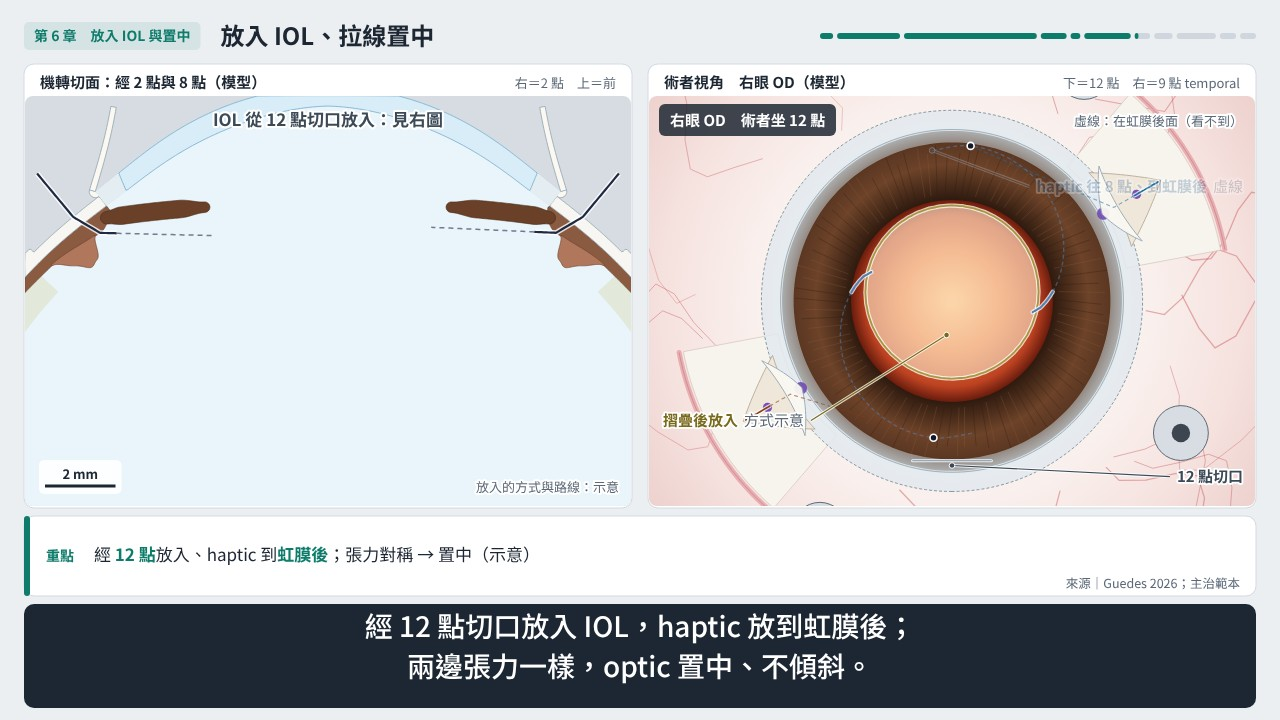
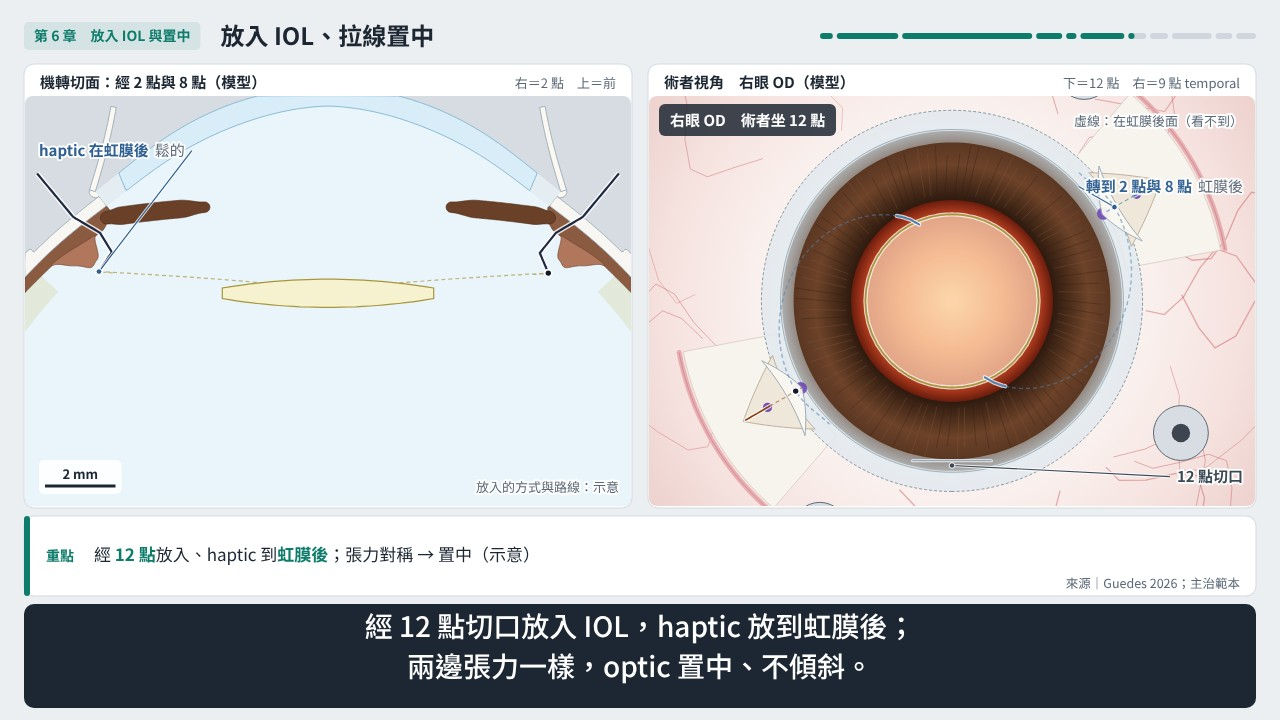
鞏膜縫合固定 IOL 影片：6-1 放入 IOL 改成只經 12 點切口進出、IOL 大小不變
原本放入途中，後面那支 haptic 有一瞬間穿過切口旁的眼球壁和虹膜；還沒拉緊時 haptic 被壓短，IOL 看起來變小（總長只剩 10.8 mm）。改成：IOL 在眼外轉向、摺疊，沿一條經過切口的直線滑進去（前面的 haptic 經瞳孔到虹膜後），後面的 haptic 壓向 optic 帶進切口，移到中央沉到虹膜後、轉到 2–8 點再展開放開；鬆的時候總長仍是 13 mm，拉線時 haptic 才在睫狀溝彎到模型縫好的位置。路線標示意。模型沒改，6-1 開頭多留 3.3 秒給放入的動作。檢查新增：整段每 0.1 秒與每個畫得出的姿勢，haptic 與 optic 只在切口穿過眼球壁、不碰虹膜角膜睫狀體，眼外與鬆的時候總長 13 mm；5 個故意改錯都會擋，舊路線也會被擋（96 格碰到組織）。

diff --git a/videos/src/sutured-scleral-iol-fixation/anim/draw.js b/videos/src/sutured-scleral-iol-fixation/anim/draw.js
@@ -8,8 +8,8 @@
 // both views is the same 3D point (window.SYNC records them per segment; check.js compares them).
 // Chapters 3–5 (2026-11-12, second round) also use the 1–7 section through two trocars and the 12–6 section through the wound; needles, the 27G
 // (insulin) needle and the suture drawn by draw.js over a section are thin strokes on the model's geometry (X.passes, X.sutureOf; the true
-// thickness hides the anatomy; 示意). Chapters 6–9 (third round): the lens put in through the 12 o'clock wound along a 示意 path (lensAt) into the
-// model's slack pose and pulled to the sulcus by the model; the knot in the bed under the flap; error states of the same model (8-1, 8-2, 8-4;
+// thickness hides the anatomy; 示意). Chapters 6–9 (third round): the lens put in through the 12 o'clock wound along a 示意 path (lensAt; 2026-11-12 rewritten:
+// through the wound only, the MA60AC's size kept, slack at its free size) and pulled into the model's fixed pose; the knot in the bed under the flap; error states of the same model (8-1, 8-2, 8-4;
 // draw.js keeps a slipped haptic's knot on the suture); evidence cards on the right of 8-2 to 8-4; the follow-along list (9-1). No placeholder is left.
 // ============================================================================
 const DRAW2 = {};
@@ -714,65 +714,101 @@ function scopeD(st, win, id, o = {}) {
 const arrowOut = (v, from3, to3, col, op = 1) => arrowPath([v.Q(from3), v.Q(to3)], col, 2.6, op);
 
 // ---------------------------------------------------------------- 6 放入 IOL 與置中
-// The strands are cut and tied (5-3, 5-4); the lens goes in from the 5-4 pose outside the 12 o'clock wound (HAP_OUT): turned in its plane outside
-// so that the haptic tied to the 8 o'clock strand leads, slid through the wound with the optic folded (the fold drawn as a narrower optic with its
-// crease), the leading haptic behind the iris toward 8 o'clock while the lens turns until the haptics point at 2 and 8 o'clock; it ends in the
-// model's slack pose (iol pull 0), from which the model pulls both strands to the sulcus (pull 1). The insertion path and the fold are 示意.
+// The strands are cut and tied (5-3, 5-4); the lens goes in from the 5-4 pose outside the 12 o'clock wound (HAP_OUT). Rewritten 2026-11-12 (出片前定稿):
+// the lens keeps the MA60AC's size — optic 6 mm, overall 13 mm (the model's X.HAP) outside the eye and while it hangs slack inside; only the
+// haptics bend (示意) — and every point of it crosses the wall in the 12 o'clock wound only. Path (示意): outside, the lens turns so that the haptic
+// tied to the 8 o'clock strand leads, the optic is folded (drawn narrower, with its crease) and both haptics are pressed toward the lens axis; it
+// slides in along one straight line through the middle of the tunnel (IN6.pitch below the frontal plane, toward 6 o'clock): the leading haptic
+// passes over the iris and through the pupil behind the iris, the optic reaches the pupil; the trailing haptic is pressed against the optic (the
+// tuck of a three-piece lens, 示意) and so comes in through the tunnel; the lens moves onto the axis, sinks behind the iris and turns until its
+// haptics point at 2 and 8 o'clock; the optic unfolds and the trailing haptic is let go behind the iris. The slack pose hangs below the sulcus at
+// the free size (the model's own slack pose, iol pull 0, compresses the haptics to 10.8 mm, so draw.js draws the lens itself in both views);
+// pulling both strands brings the ties up to the sulcus exits while the haptics flex into the model's fixed pose (iol pull 1: 12.84 mm).
+// check.js samples the segment every 0.1 s and every drawn pose (window.LENS61, LENS61_AT): through the wall only in the wound, never in the
+// iris, cornea or ciliary body; 13 mm long outside the eye and when slack.
 const IN_ST = p => OPEN({ ndl: { s2: SN.guedes, s8: SN.guedes, pass: 1, g27: 1, out: 1, taut: 1, hook: 1, cut: 1 }, iol: { pull: p } });
-const IOP0 = X.iolOf(X.norm(IN_ST(0))), IOF = X.iolOf(X.norm(IN_ST(1)));
-// keyframes [u, centre, psi (deg; d = [cos, sin, 0] is where the 8 o'clock haptic points), k (haptic compression: the PMMA loops flex while the
-// lens is placed), fold (optic width across the haptic axis), pitch (deg: the trailing, 12 o'clock end up)]; u 0 = the 5-4 pose (psi 180: HAP_OUT),
-// u 1 = the model's slack pose. The leading haptic goes down behind the iris first, the optic through the pupil, the trailing haptic last.
-const LK = [[0, O_OUT, 180, 1, 1, 0], [0.15, O_OUT, 270, 1, 1, 0], [0.3, [0, 11.0, 10.95], 270, 1, 0.42, 0], [0.52, [0, 3.3, 10.4], 270, 0.8, 0.42, 8],
-  [0.72, [0, 0.6, 9.5], 270, 0.6, 1, 14], [0.86, [0, -0.4, 8.6], 262, 0.6, 1, 0], [1, IOP0.O, 210, IOP0.k, 1, 0]];
+const IOF = X.iolOf(X.norm(IN_ST(1))), D2R6 = Math.PI / 180, TN10 = Math.tan(SN.iol.ang * D2R6), RO = X.HAP.Ro;
+const IN6 = { pitch: 25.5, fold: 0.4, sq: 0.28, zSlack: 7.3, kTuck: 0.05, aB: 3.9, zC: 9.5 };   // 示意: the line, the fold, the squeeze, the tuck, the slack depth
+const WP = G.add(INC.outer, G.sub(INC.inner, INC.outer), 0.5), UL = [0, -Math.cos(IN6.pitch * D2R6), -Math.sin(IN6.pitch * D2R6)], onL = a => G.add(WP, UL, a);
+const A0 = (() => { let t = 0; for (;;) { const p = onL(-t); if (G.wallOf(p[2], Math.hypot(p[0], p[1])).d < 0) break; t += 0.01; } return X.HAP.rTie + t + 0.25; })();   // leading tie 0.25 mm outside
+// a lens pose: centre O; heading psi of the lens axis d (deg; d points to the haptic tied to the 8 o'clock strand); pitch (deg, d below the frontal
+// plane); optic fold (its width across d); the haptics' squeeze across d; compression of the trailing (k0) and the leading (k1) haptic (1 = free)
+function lensPose(P) {
+  const psi = P.psi * D2R6, pt = P.pt * D2R6, d0 = [Math.cos(psi), Math.sin(psi), 0], eb = [-Math.sin(psi), Math.cos(psi), 0];
+  const d = G.add(d0.map(x => x * Math.cos(pt)), [0, 0, 1], -Math.sin(pt)), en = G.add([0, 0, Math.cos(pt)], d0, Math.sin(pt));
+  const haps = [0, 1].map(j => { const ex = j === 0 ? d.map(x => -x) : d, ey = j === 0 ? eb.map(x => -x) : eb, k = j === 0 ? P.k0 : P.k1;
+    return X.HAP.pts.map(p => { const r = Math.hypot(p[0], p[1]), r2 = r <= RO ? r : RO + (r - RO) * k, f = r > 1e-9 ? r2 / r : 1;
+      return G.add(G.add(G.add(P.O, ex, p[0] * f), ey, p[1] * f * P.sq), en, Math.max(0, r2 - RO) * TN10); }); });
+  const rim = []; for (let m = 0; m <= 48; m++) { const th = 2 * Math.PI * m / 48; rim.push(G.add(G.add(P.O, d, RO * Math.cos(th)), eb, RO * Math.sin(th) * P.fold)); }
+  return { O: P.O, d, eb, en, fold: P.fold, haps, rim, ties: haps.map(H => H[TIE_I]) };
+}
+const LP = (O, psi, pt, fold, sq, k0, k1) => ({ O, psi, pt, fold, sq, k0, k1 });
+// keyframes [u, pose]: 0 the 5-4 pose (psi 180 = HAP_OUT) → 0.1 turned → 0.2 folded and squeezed, at the wound → 0.5 along the line (a pure
+// translation through the tunnel) → 0.6 the trailing haptic tucked → 0.68 onto the axis → 0.82 behind the iris, turned to 2–8 → 0.9 unfolded → 1 slack
+const LK = [[0, LP(O_OUT, 180, 0, 1, 1, 1, 1)], [0.1, LP(O_OUT, 270, 0, 1, 1, 1, 1)], [0.2, LP(onL(-A0), 270, IN6.pitch, IN6.fold, IN6.sq, 1, 1)],
+  [0.5, LP(onL(IN6.aB), 270, IN6.pitch, IN6.fold, IN6.sq, 1, 1)], [0.6, LP(onL(IN6.aB), 270, IN6.pitch, IN6.fold, IN6.sq, IN6.kTuck, 1)],
+  [0.68, LP([0, 0, IN6.zC], 270, IN6.pitch, IN6.fold, IN6.sq, IN6.kTuck, 1)], [0.82, LP([0, 0, IN6.zSlack], 210, 0, IN6.fold, IN6.sq, IN6.kTuck, 1)],
+  [0.9, LP([0, 0, IN6.zSlack], 210, 0, 1, 1, IN6.kTuck, 1)], [1, LP([0, 0, IN6.zSlack], 210, 0, 1, 1, 1, 1)]];
 function lensAt(u) {
   let i = 1; while (i < LK.length - 1 && u > LK[i][0]) i++;
-  const a = LK[i - 1], b = LK[i], t = ss(a[0], b[0], u), O = [0, 1, 2].map(m => lerp(a[1][m], b[1][m], t)), psi = lerp(a[2], b[2], t) * Math.PI / 180, k = lerp(a[3], b[3], t), fold = lerp(a[4], b[4], t), pt = lerp(a[5], b[5], t) * Math.PI / 180;
-  const d0 = [Math.cos(psi), Math.sin(psi), 0], eb = [-Math.sin(psi), Math.cos(psi), 0], d = G.add(d0.map(x => x * Math.cos(pt)), [0, 0, 1], -Math.sin(pt)), en = G.add([0, 0, Math.cos(pt)], d0, Math.sin(pt));
-  const tn = Math.tan(SN.iol.ang * Math.PI / 180), Ro = X.HAP.Ro;
-  const haps = [0, 1].map(j => { const ex = j === 0 ? d.map(x => -x) : d, ey = j === 0 ? eb.map(x => -x) : eb;
-    return X.HAP.pts.map(p => { const r = Math.hypot(p[0], p[1]), r2 = r <= Ro ? r : Ro + (r - Ro) * k, f = r > 1e-9 ? r2 / r : 1; return G.add(G.add(G.add(O, ex, p[0] * f), ey, p[1] * f * fold), en, Math.max(0, r2 - Ro) * tn); }); });
-  const rim = []; for (let m = 0; m <= 48; m++) { const th = 2 * Math.PI * m / 48; rim.push(G.add(G.add(O, d, Ro * Math.cos(th)), eb, Ro * Math.sin(th) * fold)); }
-  return { O, d, eb, fold, haps, rim, ties: haps.map(H => H[TIE_I]) };
+  const [ua, a] = LK[i - 1], [ub, b] = LK[i], t = ss(ua, ub, u), L = (x, y) => lerp(x, y, t);
+  return lensPose(LP([0, 1, 2].map(m => L(a.O[m], b.O[m])), L(a.psi, b.psi), L(a.pt, b.pt), L(a.fold, b.fold), L(a.sq, b.sq), L(a.k0, b.k0), L(a.k1, b.k1)));
 }
+// slack → the model's fixed pose (pull 1 = X.iolOf of IN_ST(1)): the haptics flex first, then the lens rises to the sulcus
+function pulledAt(pl) { const k = lerp(1, IOF.k, ss(0, 0.3, pl)); return lensPose(LP([0, 0, lerp(IN6.zSlack, IOF.O[2], ss(0.15, 1, pl))], 210, 0, 1, 1, k, k)); }
+const U61 = 120, P61 = 16;   // quantised steps of the insertion and the pull (frames reused between steps)
+window.LENS61_AT = { u: k => lensAt(k / U61), pull: k => pulledAt(k / P61), U61, P61 };
 // each strand from its bed to its tie on the moving lens: out through the wound while the tie is outside, through the tunnel, around the pupil
-// margin while the tie is in the chamber, straight behind the iris once the tie is there (the hooked route of 5-3; 示意)
+// margin while the tie is in the chamber (the hooked route of 5-3; 示意), straight behind the iris once the tie is there (sagging inward when slack)
 const STR0 = X.sutureOf(X.norm(CUT_ST)).segs.map(sg => sg.slice(0, 3)), HK = [0, 1].map(j => X.hookPts(PS0, j));
-function strandsTo(ties) { return ties.map((T, j) => { const W = G.wallOf(T[2], Math.hypot(T[0], T[1])), r = Math.hypot(T[0], T[1]);
+function strandsTo(ties, sag = 0) { return ties.map((T, j) => { const W = G.wallOf(T[2], Math.hypot(T[0], T[1])), r = Math.hypot(T[0], T[1]);
   if (W.d < 0) return [...STR0[j], ...HK[j], INC.inner, INC.outer, T];
   if (W.d <= G.T(W.s)) return [...STR0[j], ...HK[j], INC.inner, T];
-  return X.acTest(r, T[2]) ? [...STR0[j], ...HK[j], T] : [...STR0[j], T]; }); }
+  if (X.acTest(r, T[2])) return [...STR0[j], ...HK[j], T];
+  const I = STR0[j][2], M = G.add(I, G.sub(T, I), 0.5); return [...STR0[j], G.add(M, G.unit([M[0], M[1], 0]), -sag), T]; }); }
 // the moving lens on the microscope view: optic (narrow while folded, with its crease), haptics dashed where hidden, the two ties
 function lensScope(v, L, op = 1) {
   const q = L.rim.map(p => v.Q(p)), c = v.Q([0, 0, 0]), behind = !X.acTest(Math.hypot(L.O[0], L.O[1]), L.O[2]) && G.wallOf(L.O[2], Math.hypot(L.O[0], L.O[1])).d > 0;
   let s = `<clipPath id="pup61"><circle cx="${c[0].toFixed(1)}" cy="${c[1].toFixed(1)}" r="${(X.IR.pr * v.k).toFixed(1)}"/></clipPath>`;
   s += `<g ${behind ? 'clip-path="url(#pup61)"' : ''}><path d="M${q.map(f1).join('L')}Z" fill="#fff6dc" opacity="0.55"/></g>` + polyScope(v, L.rim, 1.8, C.iolS);
-  if (L.fold < 0.95) { const a = v.Q(G.add(L.O, L.d, -X.HAP.Ro)), b = v.Q(G.add(L.O, L.d, X.HAP.Ro)); s += `<path d="M${f1(a)}L${f1(b)}" stroke="${C.iolS}" stroke-width="1.4" stroke-dasharray="4 3"/>`; }
+  if (L.fold < 0.95) { const a = v.Q(G.add(L.O, L.d, -RO)), b = v.Q(G.add(L.O, L.d, RO)); s += `<path d="M${f1(a)}L${f1(b)}" stroke="${C.iolS}" stroke-width="1.4" stroke-dasharray="4 3"/>`; }
   for (const H of L.haps) s += polyScope(v, H, 2.0, C.hap);
   for (const t of L.ties) s += dot(v.Q(t), '#111827', 3.5);
   return `<g opacity="${op}">${s}</g>`;
 }
+// the lens in the 2–8 section (it lies in this plane once turned): the optic's cut (thickness profile), the haptics projected (dashed: out of the
+// plane, as the model draws them), the ties
+function lensSec(v, L, op = 1) {
+  const top = [], bot = []; for (let m = 0; m <= 30; m++) { const x = -RO + 2 * RO * m / 30, h = X.optHalf(Math.abs(x)); top.push(v.Q(G.add(G.add(L.O, L.d, x), L.en, h))); bot.unshift(v.Q(G.add(G.add(L.O, L.d, x), L.en, -h))); }
+  let s = ''; for (const H of L.haps) s += `<path d="M${H.map(p => f1(v.Q(p))).join('L')}" fill="none" stroke="${C.iolS}" stroke-width="1.2" stroke-dasharray="4 3" opacity="0.7"/>`;
+  s += `<path d="M${[...top, ...bot].map(f1).join('L')}Z" fill="${C.iol}" stroke="${C.iolS}" stroke-width="1.2"/>`;
+  for (const t of L.ties) s += dot(v.Q(t), '#111827', 3.5);
+  return `<g opacity="${op}">${s}</g>`;
+}
 DRAW2['6-1'] = T => {
-  const u = T.p(0, 0.02, 0.56), kx = T.p(0, 0.56, 0.62), pull = T.p(0, 0.62, 0.9), k1 = T.on(1), k2 = T.on(2);
-  const uq = qz(u, 60), L = lensAt(uq), strands = strandsTo(L.ties), pq = qz(pull, 16);
-  // left: the 2–8 section: the strands follow the lens in (out of this plane: dashed); the lens appears when it hangs behind the iris (slack, pull 0),
-  // then both strands are pulled and the haptics come up to the sulcus under the fixation points: optic centred, not tilted
-  const vA = sec(OPEN({}), W_IOL), vB = kx > 0 ? sec(IN_ST(pq), W_IOL) : null, A = vB ? vB.A : vA.A;
-  let svg = kx <= 0 ? vA.svg : kx >= 1 ? vB.svg : vA.svg + `<g opacity="${kx.toFixed(2)}">${vB.svg}</g>`;
-  if (kx < 1) for (const sg of strands) svg += strandSec(vA, sg, { op: 1 - kx });
+  const pre = T.st(0) - 0.3, d0 = T.en(0) - T.st(0);   // the segment's lead (segments.js) gives the insertion time before line 0
+  const u = T.on(0, pre + 0.5 * d0, -pre), pull = T.p(0, 0.6, 0.92), k1 = T.on(1), k2 = T.on(2);
+  const uq = Math.round(clamp01(u) * U61), pq = Math.round(clamp01(pull) * P61), L = pq > 0 ? pulledAt(pq / P61) : lensAt(uq / U61), strands = strandsTo(L.ties, 0.35 * (1 - pq / P61));
+  const uu = uq / U61, kx = ss(0.8, 0.86, uu), win = (a, b, c, d) => ss(a, b, uu) * (1 - ss(c, d, uu));   // kx: the lens lies in the 2–8 plane (turned, behind the iris)
+  window.LENS61 = { u: uq, pull: pq, O: L.O, d: L.d, eb: L.eb, en: L.en, fold: L.fold, haps: L.haps };
+  // left: the 2–8 section: the strands follow the lens in (out of this plane: dashed); the lens appears once it is turned into this plane behind
+  // the iris (the optic unfolds, the trailing haptic is let go: hanging slack); then both strands are pulled and the haptics come up to the sulcus under the fixation points: optic centred, not tilted
+  const vA = sec(OPEN({}), W_IOL);
+  let svg = vA.svg; for (const sg of strands) svg += strandSec(vA, sg);
+  if (kx > 0) svg += lensSec(vA, L, kx);
   const kp = pull > 0 && pull < 1 ? 1 : 0, out2 = G.add(PS0.E2, G.unit(G.sub(PS0.E2, PS0.I2)), 1.6), out8 = G.add(PS0.E8, G.unit(G.sub(PS0.E8, PS0.I8)), 1.6);
   svg += arrowOut(vA, G.add(PS0.E2, G.unit(G.sub(PS0.E2, PS0.I2)), 0.4), out2, WARN, kp) + arrowOut(vA, G.add(PS0.E8, G.unit(G.sub(PS0.E8, PS0.I8)), 0.4), out8, WARN, kp);
-  if (k2 > 0) { const top = [], bot = [], back = -0.7; for (let m = 0; m <= 30; m++) { const x = -X.HAP.Ro + 2 * X.HAP.Ro * m / 30, hth = X.optHalf(Math.abs(x)); top.push(vB.Q(G.add(G.add(IOF.O, IOF.d, x), IOF.en, back + hth))); bot.unshift(vB.Q(G.add(G.add(IOF.O, IOF.d, x), IOF.en, back - hth))); }
+  if (k2 > 0) { const top = [], bot = [], back = -0.7; for (let m = 0; m <= 30; m++) { const x = -RO + 2 * RO * m / 30, hth = X.optHalf(Math.abs(x)); top.push(vA.Q(G.add(G.add(IOF.O, IOF.d, x), IOF.en, back + hth))); bot.unshift(vA.Q(G.add(G.add(IOF.O, IOF.d, x), IOF.en, back - hth))); }
     svg += `<path d="M${[...top, ...bot].map(f1).join('L')}Z" fill="none" stroke="#7d8e9b" stroke-width="1.8" stroke-dasharray="6 4" opacity="${k2.toFixed(2)}"/>`;
-    const a = vB.Q(G.add(IOF.O, IOF.en, back - 0.35)), b = vB.Q(G.add(IOF.O, IOF.en, -0.45)); svg += arrowPath([a, b], COL.accent, 2.4, k2.toFixed(2)); }
-  let ex = tag('IOL 從 12 點切口放入：見右圖', T.on(0) * (1 - kx), INK2, 30);
-  if (vB) { ex += labL('haptic 在虹膜後', '鬆的', 60, A.tie8, { bold: true, color: '#2f5f93', lc: '#2f5f93', op: kx * (1 - pull) });
-    ex += labR('拉 2 點的線', '', 210, vB.Q(PS0.E2), { bold: true, color: WARN, lc: WARN, op: kp });
-    ex += labL('拉 8 點的線', '', 210, vB.Q(PS0.E8), { bold: true, color: WARN, lc: WARN, op: kp });
-    ex += labR('haptic 到睫狀溝 sulcus', '', 130, A.tie2, { bold: true, color: GRN, lc: GRN, op: ss(0.85, 1, pull) * (1 - k1) });
-    ex += labL('optic 置中、不傾斜', '', 300, A.iolC, { bold: true, color: IOLC, lc: IOLC, op: ss(0.85, 1, pull) * (1 - k2) });
-    ex += labL('縫在溝：較前', 'sulcus', 300, A.iolC, { bold: true, color: COL.accent, lc: COL.accent, op: k2 });
-    ex += labR('囊袋內的位置', '比較、示意', 330, vB.Q(G.add(G.add(IOF.O, IOF.d, -2.2), IOF.en, -0.7 - 0.25)), { bold: true, color: '#56616d', lc: '#56616d', op: k2 }); }
+    const a = vA.Q(G.add(IOF.O, IOF.en, back - 0.35)), b = vA.Q(G.add(IOF.O, IOF.en, -0.45)); svg += arrowPath([a, b], COL.accent, 2.4, k2.toFixed(2)); }
+  let ex = tag('IOL 從 12 點切口放入：見右圖', T.on(0, 0.6, -pre) * (1 - kx), INK2, 30);
+  if (kx > 0) { ex += labL('haptic 在虹膜後', '鬆的', 60, vA.Q(L.ties[1]), { bold: true, color: '#2f5f93', lc: '#2f5f93', op: kx * (1 - pull) });
+    ex += labR('拉 2 點的線', '', 210, vA.Q(PS0.E2), { bold: true, color: WARN, lc: WARN, op: kp });
+    ex += labL('拉 8 點的線', '', 210, vA.Q(PS0.E8), { bold: true, color: WARN, lc: WARN, op: kp });
+    ex += labR('haptic 到睫狀溝 sulcus', '', 130, vA.Q(L.ties[0]), { bold: true, color: GRN, lc: GRN, op: ss(0.85, 1, pull) * (1 - k1) });
+    ex += labL('optic 置中、不傾斜', '', 300, vA.Q(L.O), { bold: true, color: IOLC, lc: IOLC, op: ss(0.85, 1, pull) * (1 - k2) });
+    ex += labL('縫在溝：較前', 'sulcus', 300, vA.Q(L.O), { bold: true, color: COL.accent, lc: COL.accent, op: k2 });
+    ex += labR('囊袋內的位置', '比較、示意', 330, vA.Q(G.add(G.add(IOF.O, IOF.d, -2.2), IOF.en, -0.7 - 0.25)), { bold: true, color: '#56616d', lc: '#56616d', op: k2 }); }
   // line 1: vertical tilt in the UBM study (a gauge; the lens drawn tilted by the study's mean, the 5° line the threshold it quotes)
   if (k1 > 0) { const bx = 300, by = 238, bw = 292, bh = 160, cx = bx + bw / 2, cy = by + 96, R = 120, rot = (deg, r) => [cx + r * Math.cos(deg * Math.PI / 180), cy - r * Math.sin(deg * Math.PI / 180)];
     let g = `<rect x="${bx}" y="${by}" width="${bw}" height="${bh}" rx="8" fill="#fff" stroke="#d3dae1"/>` + text(bx + 12, by + 24, '垂直傾斜 tilt（UBM，Zhao 2025）', { size: 14, bold: true, color: INK2 });
@@ -782,24 +818,25 @@ DRAW2['6-1'] = T => {
     g += text(bx + bw - 12, by + 52, '> 5°：可能眩光、複視（引述）', { size: 13, bold: true, color: WARN, anchor: 'end' }) + text(bx + 12, by + bh - 12, '平均 3.13°', { size: 15, bold: true, color: IOLC });
     svg += `<g opacity="${(k1 * (1 - k2)).toFixed(2)}">${g}</g>`; }
   ex += sbar(vA, 2) + note('放入的方式與路線：示意', 1);
-  if (pull >= 1) { sync('6-1', 'sec', 'tie2', IOF.ties[0]); sync('6-1', 'sec', 'tie8', IOF.ties[1]); sync('6-1', 'sec', 'iolC', IOF.O); }
-  // right: the microscope view: the folded lens through the 12 o'clock wound, the leading haptic behind the iris toward 8 o'clock, the lens turned;
-  // then the model's lens pulled from slack to the sulcus; dashed = behind the iris
-  const zw = qz(T.p(0, 0.14, 0.4), 24), swn = VIEWS.zwin(SC_54, SC_ALL, zw), wA = scope(OPEN({}), swn, 'sR'), wB = kx > 0 ? scope(IN_ST(pq), SC_ALL, 'sR2') : null;
-  let rsvg = kx <= 0 ? wA.svg : kx >= 1 ? wB.svg : wB.svg + `<g opacity="${(1 - kx).toFixed(2)}">${wA.svg}</g>`;
-  if (kx < 1) { for (const [j, sg] of strands.entries()) rsvg += polyScope(wA, sg, 1.6, j ? S8C : S2C, { op: 1 - kx }); rsvg += lensScope(wA, L, 1 - kx); }
-  rsvg += arrowOut(wA, G.add(PS0.E2, G.unit(G.sub(PS0.E2, PS0.I2)), 0.4), out2, WARN, kp) + arrowOut(wA, G.add(PS0.E8, G.unit(G.sub(PS0.E8, PS0.I8)), 0.4), out8, WARN, kp);
+  if (pq >= P61) { sync('6-1', 'sec', 'tie2', L.ties[0]); sync('6-1', 'sec', 'tie8', L.ties[1]); sync('6-1', 'sec', 'iolC', L.O); }
+  // right: the microscope view: the folded lens through the 12 o'clock wound, the leading haptic behind the iris, the trailing haptic tucked, the
+  // lens turned to 2–8 behind the iris and let go; then pulled from slack to the sulcus; dashed = behind the iris
+  const zw = qz(ss(0.15, 0.45, uq / U61), 24), wA = scope(OPEN({}), VIEWS.zwin(SC_54, SC_ALL, zw), 'sR');
+  let rsvg = wA.svg; for (const [j, sg] of strands.entries()) rsvg += polyScope(wA, sg, 1.6, j ? S8C : S2C);
+  rsvg += lensScope(wA, L) + arrowOut(wA, G.add(PS0.E2, G.unit(G.sub(PS0.E2, PS0.I2)), 0.4), out2, WARN, kp) + arrowOut(wA, G.add(PS0.E8, G.unit(G.sub(PS0.E8, PS0.I8)), 0.4), out8, WARN, kp);
   let rx = orientTag();
   rx += labR('12 點切口', '', 386, wA.Q(INC.outer), { bold: true, color: INK2, op: 1 - pull });
-  rx += labL('摺疊後放入', '方式示意', 330, wA.Q(G.add(L.O, L.d, -1.5)), { bold: true, color: IOLC, lc: IOLC, op: T.p(0, 0.2, 0.28) * (1 - T.p(0, 0.48, 0.55)) });
-  rx += labR('haptic 往 8 點、到虹膜後', '虛線', 96, wA.Q(L.haps[1][X.HAP.pts.length - 1]), { bold: true, color: '#2f5f93', lc: '#2f5f93', op: T.p(0, 0.4, 0.46) * (1 - kx) });
-  if (wB) { rx += labR('拉 8 點的線', '', 130, wB.Q(out8), { bold: true, color: WARN, lc: WARN, op: kp });
-    rx += labL('拉 2 點的線', '', 300, wB.Q(out2), { bold: true, color: WARN, lc: WARN, op: kp });
-    rx += labR('optic 置中', 'centred', 230, wB.A.iolC, { bold: true, color: IOLC, lc: IOLC, op: ss(0.85, 1, pull) });
-    if (wB.A.tie2) rx += labL('2 點綁線處', 'haptic', 230, wB.A.tie2, { bold: true, color: GRN, lc: GRN, op: ss(0.85, 1, pull) });
-    if (wB.A.tie8) rx += labR('8 點綁線處', 'haptic', 130, wB.A.tie8, { bold: true, color: GRN, lc: GRN, op: ss(0.85, 1, pull) * (1 - kp) }); }
+  rx += labL('摺疊後放入', '方式示意', 330, wA.Q(G.add(L.O, L.d, -1.5)), { bold: true, color: IOLC, lc: IOLC, op: win(0.1, 0.18, 0.42, 0.48) });
+  rx += labR('前面的 haptic 先到虹膜後', '虛線', 96, wA.Q(L.haps[1][X.HAP.pts.length - 1]), { bold: true, color: '#2f5f93', lc: '#2f5f93', op: win(0.38, 0.44, 0.52, 0.56) });
+  rx += labL('後面的 haptic 壓向 optic', '示意', 300, wA.Q(L.haps[0][TIE_I]), { bold: true, color: '#2f5f93', lc: '#2f5f93', op: win(0.52, 0.56, 0.68, 0.72) });
+  rx += labR('轉到 2 點與 8 點', '虹膜後', 96, wA.Q(L.ties[1]), { bold: true, color: '#2f5f93', lc: '#2f5f93', op: win(0.72, 0.76, 0.98, 1.01) * (1 - clamp01(pull * 4)) });
+  if (kx > 0) { rx += labR('拉 8 點的線', '', 130, wA.Q(out8), { bold: true, color: WARN, lc: WARN, op: kp });
+    rx += labL('拉 2 點的線', '', 300, wA.Q(out2), { bold: true, color: WARN, lc: WARN, op: kp });
+    rx += labR('optic 置中', 'centred', 230, wA.Q(L.O), { bold: true, color: IOLC, lc: IOLC, op: ss(0.85, 1, pull) });
+    rx += labL('2 點綁線處', 'haptic', 230, wA.Q(L.ties[0]), { bold: true, color: GRN, lc: GRN, op: ss(0.85, 1, pull) });
+    rx += labR('8 點綁線處', 'haptic', 130, wA.Q(L.ties[1]), { bold: true, color: GRN, lc: GRN, op: ss(0.85, 1, pull) * (1 - kp) }); }
   rx += note('虛線：在虹膜後面（看不到）', 1, 30) + note('度數依主治', k2);
-  if (pull >= 1) { sync('6-1', 'scope', 'tie2', IOF.ties[0]); sync('6-1', 'scope', 'tie8', IOF.ties[1]); sync('6-1', 'scope', 'iolC', IOF.O); }
+  if (pq >= P61) { sync('6-1', 'scope', 'tie2', L.ties[0]); sync('6-1', 'scope', 'tie8', L.ties[1]); sync('6-1', 'scope', 'iolC', L.O); }
   return { L: { svg, extra: ex, P: IOL_SEC_T }, R: { svg: rsvg, extra: rx, P: SCOPE_T } };
 };
 

diff --git a/videos/src/sutured-scleral-iol-fixation/check.js b/videos/src/sutured-scleral-iol-fixation/check.js
@@ -23,6 +23,11 @@
 //    left: every segment draws more than its title and never 「畫面製作中」.
 // 6. States drawn (window.STATES): 8-1 the symmetric lens is not tilted and the asymmetric one is (Zhao 2025: asymmetry predicts tilt; amount 示意);
 //    8-4 each state shown side by side is an error state (decentred or tilted).
+// 7. 6-1, the lens put in (2026-11-12, 出片前定稿): the whole segment every 0.1 s and every pose draw.js can draw (window.LENS61, LENS61_AT): every
+//    point of the haptics (centre line every 0.05 mm) and of the optic (both faces and the rim) is outside the eye, in the open chamber / cavity, or
+//    in the wall only inside the 12 o'clock wound (2.75 mm wide, from its outer to its inner opening, the whole thickness: the lips open); never in
+//    the iris, the cornea, sclera or limbus elsewhere, or the ciliary body; the lens does cross the wound; outside the eye the lens is the MA60AC's
+//    13 mm overall with a 6 mm optic, and hanging slack inside it is still 13 mm (only the haptics bend; pulled, they flex to the model's fixed pose).
 // --selftest breaks each check once on purpose and fails unless every check then reports the error. --list prints the numbers per segment.
 global.document = { createElement: () => ({ getContext: () => ({ measureText: () => ({ width: 10 }) }) }) };
 const path = require('path');
@@ -86,7 +91,13 @@ async function fromPage() {   // all text drawn on screen per drawn segment (60 
     const placed = {}; for (const id of window.PLACEHOLDERS || []) { const s = TL_EXPORT.find(x => x.id === id), set = new Set();
       for (const [a, e] of s.lines) { renderAt(a + (e - a) * 0.6); for (const t of document.querySelectorAll('#stage text')) { const r = t.getBoundingClientRect(), y = r.y + r.height / 2; if (y > CONTENT_Y && y < CONTENT_Y + CONTENT_H) set.add(t.textContent); } }
       placed[id] = [...set]; }
-    return { screen, sync: window.SYNC, tl, place: window.PLACEHOLDERS, placed, source: window.TIMELINE_SOURCE, states: window.STATES }; });
+    // 6-1: the lens every 0.1 s, and every pose draw.js can draw (its quantised insertion and pull steps)
+    const s61 = TL_EXPORT.find(x => x.id === '6-1'), pick = L => L ? { O: L.O, d: L.d, eb: L.eb, en: L.en, fold: L.fold, haps: L.haps } : {}, lens61 = [];
+    if (s61) for (let t = s61.t0; t < s61.t1; t += 0.1) { renderAt(t); lens61.push({ t: +(t - s61.t0).toFixed(2), u: (window.LENS61 || {}).u, pull: (window.LENS61 || {}).pull, ...pick(window.LENS61) }); }
+    const at = window.LENS61_AT, poses = !at ? [] : [...Array(at.U61 + 1).keys()].map(k => ({ u: k, pull: 0, ...pick(at.u(k)) }))
+      .concat([...Array(at.P61 + 1).keys()].map(k => ({ u: at.U61, pull: k, ...pick(at.pull(k)) })));
+    return { screen, sync: window.SYNC, tl, place: window.PLACEHOLDERS, placed, source: window.TIMELINE_SOURCE, states: window.STATES,
+      lens61: JSON.parse(JSON.stringify(lens61)), poses: JSON.parse(JSON.stringify(poses)), dur61: s61 ? s61.t1 - s61.t0 : 0, U61: at && at.U61, P61: at && at.P61 }; });
   await b.close();
   if (errs.length) throw new Error('page errors: ' + errs.join(' | '));
   return out;
@@ -285,13 +296,57 @@ function ledgerChecks(ctx) {
   return R;
 }
 
+// ---------------------------------------------------------------- 7. 6-1: the lens through the wound only, its size
+const RO = X.HAP.Ro, WOUND = { h: SN.inc.h, half: SN.inc.w / 2, s0: SN.inc.sIn - 0.1, s1: SN.inc.s + 0.1 };
+function where(p) {   // outside / in (open chamber or cavity) / wound / wall (cornea, limbus, sclera elsewhere) / iris / uvea
+  const rho = Math.hypot(p[0], p[1]), o = X.uveaAt(rho, p[2]), W = o.W;
+  if (o.cornea < 0 || o.limbus < 0 || o.sclera < 0) { const lat = Math.abs(X.dH(G.mer(p).h, WOUND.h)) * Math.PI / 6 * W.rhoF;
+    return W.s >= WOUND.s0 && W.s <= WOUND.s1 && lat <= WOUND.half ? 'wound' : 'wall'; }
+  if (o.iris < 0) return 'iris';
+  if (o.cbody < 0 || o.proc < 0 || o.choroid < 0 || o.retina < 0) return 'uvea';
+  return o.interior < 0 ? 'in' : 'out';
+}
+function lensPts(F) {   // haptic centre lines every ≤ 0.05 mm; the optic's two faces (a grid inside its outline, narrowed while folded) and its rim
+  const pts = [];
+  for (const H of F.haps) for (let i = 1; i < H.length; i++) { const a = H[i - 1], b = H[i], n = Math.max(1, Math.ceil(G.len(G.sub(b, a)) / 0.05)); for (let k = i === 1 ? 0 : 1; k <= n; k++) pts.push(['haptic', G.add(a, G.sub(b, a), k / n)]); }
+  for (let i = -6; i <= 6; i++) for (let k = -6; k <= 6; k++) { const a = i / 6, b = k / 6, r = Math.hypot(a, b); if (r > 1) continue; const h = X.optHalf(RO * r);
+    for (const sg of [-1, 1]) pts.push(['optic', G.add(G.add(G.add(F.O, F.d, RO * a), F.eb, RO * b * F.fold), F.en, sg * h)]); }
+  for (let m = 0; m < 48; m++) { const th = 2 * Math.PI * m / 48; pts.push(['optic', G.add(G.add(F.O, F.d, RO * Math.cos(th)), F.eb, RO * Math.sin(th) * F.fold)]); }
+  return pts;
+}
+const along = (F, pts) => { const v = pts.map(p => G.dot(G.sub(p, F.O), F.d)); return Math.max(...v) - Math.min(...v); };
+const sizeOf = F => ({ overall: along(F, F.haps.flat()), optic: 2 * RO });   // optic: the drawn outline is RO along d (the fold narrows it across d only)
+const LCACHE = new Map();   // the self-test re-runs every check per mutation: the lens part only when its frames changed
+function lensChecks(ctx) {
+  const key = JSON.stringify([ctx.lens61, ctx.poses, ctx.dur61, ctx.U61]); if (!LCACHE.has(key)) LCACHE.set(key, lensChecks0(ctx)); return LCACHE.get(key);
+}
+function lensChecks0(ctx) {
+  const R = [], ok = (c, m) => R.push([!!c, m]), frames = ctx.lens61 || [], poses = ctx.poses || [], all = [...frames.map(f => ['t ' + f.t + ' s', f]), ...poses.map(f => [`pose u ${f.u} pull ${f.pull}`, f])];
+  const bad = [], outside = [], slack = []; let wound = 0, missing = 0;
+  for (const [nm, F] of all) { if (!F.haps) { missing++; continue; } const kinds = {};
+    const wh = lensPts(F).map(([part, p]) => [part, where(p)]);
+    for (const [part, w] of wh) { if (w === 'wound') wound++; if (['wall', 'iris', 'uvea'].includes(w)) kinds[part + ' in ' + w] = (kinds[part + ' in ' + w] || 0) + 1; }
+    if (Object.keys(kinds).length) bad.push(`${nm}: ${Object.entries(kinds).map(([k, n]) => `${k} ×${n}`).join(', ')}`);
+    const sz = sizeOf(F), rimLen = along(F, [0, 1, 2, 3].map(q => G.add(F.O, F.d, RO * Math.cos(q * Math.PI / 2))));
+    if (wh.every(x => x[1] === 'out')) outside.push([nm, sz.overall, rimLen]);
+    if (F.u === ctx.U61 && F.pull === 0) slack.push([nm, sz.overall]); }
+  const need = Math.floor((ctx.dur61 || 0) / 0.1);
+  ok(frames.length >= need && need > 100 && poses.length > 100 && !missing && wound > 0 && !bad.length,
+    `6-1 the lens (${frames.length} frames every 0.1 s, ${poses.length} drawn poses): through the wall only in the 12 o'clock wound (${wound} points there), never in the iris, cornea, sclera or ciliary body${missing ? `; ${missing} frame(s) without the lens` : ''}${bad.length ? '; ' + bad.slice(0, 4).join(' | ') + (bad.length > 4 ? ` … (${bad.length})` : '') : ''}`);
+  const badOut = outside.filter(([, o, r]) => Math.abs(o - SN.iol.overall) > 0.02 || Math.abs(r - SN.iol.optic) > 0.02), badSl = slack.filter(([, o]) => Math.abs(o - SN.iol.overall) > 0.02);
+  ok(outside.length >= 10 && slack.length >= 2 && !badOut.length && !badSl.length && SN.iol.overall === 13 && SN.iol.optic === 6,
+    `6-1 the MA60AC keeps its size: outside the eye (${outside.length} frames) ${outside.length ? [...new Set(outside.map(x => x[1].toFixed(2)))].join(' / ') : '—'} mm overall, optic ${outside.length ? [...new Set(outside.map(x => x[2].toFixed(2)))].join(' / ') : '—'} mm; slack in the eye (${slack.length}) ${slack.length ? [...new Set(slack.map(x => x[1].toFixed(2)))].join(' / ') : '—'} mm (expected 13 and 6)${badOut.length || badSl.length ? '; wrong: ' + [...badOut, ...badSl].slice(0, 3).map(x => x[0]).join(', ') : ''}`);
+  return R;
+}
+
 // ---------------------------------------------------------------- run
 const clone = o => JSON.parse(JSON.stringify(o));
 function baseCtx(page, M) {
   const text = {}; for (const s of SEGS) text[s.id] = clone(s);
-  return { M: clone(M), text, segs: clone(SEGS), screen: clone(page.screen), ledger: clone(LEDGER), sync: clone(page.sync), tl: clone(page.tl), place: clone(page.place || []), placed: clone(page.placed || {}), source: page.source, video: clone(VIDEO), states: clone(page.states || {}) };
+  return { M: clone(M), text, segs: clone(SEGS), screen: clone(page.screen), ledger: clone(LEDGER), sync: clone(page.sync), tl: clone(page.tl), place: clone(page.place || []), placed: clone(page.placed || {}), source: page.source, video: clone(VIDEO), states: clone(page.states || {}),
+    lens61: clone(page.lens61 || []), poses: clone(page.poses || []), dur61: page.dur61, U61: page.U61, P61: page.P61 };
 }
-const runAll = ctx => [...ledgerChecks(ctx), ...modelChecks(ctx), ...wordingChecks(ctx), ...syncChecks(ctx), ...timingChecks(ctx), ...stateChecks(ctx)];
+const runAll = ctx => [...ledgerChecks(ctx), ...modelChecks(ctx), ...wordingChecks(ctx), ...syncChecks(ctx), ...timingChecks(ctx), ...stateChecks(ctx), ...lensChecks(ctx)];
 if (require.main === module) (async () => {
   const page = await fromPage(), M = modelFacts();
   if (process.argv.includes('--list')) { for (const s of SEGS) if (!s.chapterCard && s.layout !== 'refs') { const t = [s.title || '', ...(s.lines || []), ...(s.keys || []).map(k => k[1]), ...(page.screen[s.id] || [])];
@@ -360,7 +415,13 @@ if (require.main === module) (async () => {
       ['8-1 the symmetric state drawn asymmetric', c => { c.states['8-1'].sym = c.states['8-1'].asym; }],
       ['8-4 a state side by side that is not an error', c => { c.states['8-4'].loose = c.states['8-1'].sym; }],
       ['(d) 8-4 on screen explains the earlier surgery', c => { c.screen['8-4'].push('前一次縫線太鬆所以脫位'); }],
+      ['6-1 the lens 2 mm sideways while it crosses the wall (through the cornea beside the wound)', c => { let F = null, n0 = 0; for (const f of c.lens61) { if (!f.haps) continue; const n = lensPts(f).filter(x => where(x[1]) === 'wound').length; if (n > n0) { n0 = n; F = f; } } moveF(F, p => [p[0] + 2, p[1], p[2]]); }],
+      ['6-1 the slack lens 2 mm forward (haptics into the iris and ciliary body)', c => { const F = c.lens61.find(f => f.u === c.U61 && f.pull === 0); moveF(F, p => [p[0], p[1], p[2] + 2]); }],
+      ['6-1 the lens 5 % bigger outside the eye', c => { const F = c.lens61[0]; F.haps = F.haps.map(H => H.map(p => G.add(F.O, G.sub(p, F.O), 1.05))); }],
+      ['6-1 the slack lens compressed to the model\'s slack pose (10.8 mm)', c => { for (const F of [...c.lens61, ...c.poses].filter(f => f.u === c.U61 && f.pull === 0)) F.haps = F.haps.map(H => H.map(p => { const q = G.sub(p, F.O), x = G.dot(q, F.d), y = G.dot(q, F.eb), z = G.dot(q, F.en), r = Math.hypot(x, y), r2 = r <= RO ? r : RO + (r - RO) * 0.69, f = r > 1e-9 ? r2 / r : 1; return G.add(G.add(G.add(F.O, F.d, x * f), F.eb, y * f), F.en, z); })); }],
+      ['6-1 a frame without the lens', c => { c.lens61[Math.floor(c.lens61.length / 2)] = { t: 0 }; }],
     ];
+    const moveF = (F, f) => { F.O = f(F.O); F.haps = F.haps.map(H => H.map(f)); };
     let bad = 0;
     for (const [name, mut] of MUT) { const c = baseCtx(page, M); mut(c); const n = runAll(c).filter(r => !r[0]).length; console.log(`${n ? 'PASS' : 'FAIL'} selftest: breaking 「${name}」 → ${n} check(s) fail`); if (!n) bad++; }
     if (bad) { console.log(`${bad} mutation(s) not caught`); fail += bad; }

diff --git a/videos/src/sutured-scleral-iol-fixation/anim/timeline.js b/videos/src/sutured-scleral-iol-fixation/anim/timeline.js
@@ -1,1 +1,1 @@
-window.TIMELINE = {"segs": {"title": {"t0": 0.0, "t1": 18.738, "lines": [[1.0, 7.954], [8.404, 13.717], [14.167, 17.538]]}, "c1": {"t0": 18.738, "t1": 21.538, "lines": []}, "1-1": {"t0": 21.538, "t1": 40.395, "lines": [[22.238, 28.186], [28.636, 33.083], [33.533, 39.195]]}, "1-2": {"t0": 40.395, "t1": 64.324, "lines": [[41.095, 46.504], [46.954, 53.227], [53.677, 57.359], [57.809, 63.124]]}, "1-3": {"t0": 64.324, "t1": 86.285, "lines": [[65.024, 71.996], [72.446, 78.517], [78.967, 85.085]]}, "1-4": {"t0": 86.285, "t1": 108.572, "lines": [[86.985, 93.572], [94.022, 100.743], [101.193, 107.372]]}, "c2": {"t0": 108.572, "t1": 111.372, "lines": []}, "2-1": {"t0": 111.372, "t1": 138.833, "lines": [[112.072, 117.855], [118.305, 121.762], [122.212, 128.273], [128.723, 134.223], [134.673, 137.633]]}, "2-2": {"t0": 138.833, "t1": 162.402, "lines": [[139.533, 147.638], [148.088, 154.329], [154.779, 161.202]]}, "2-3": {"t0": 162.402, "t1": 187.636, "lines": [[163.102, 171.614], [172.064, 176.927], [177.377, 182.52], [182.97, 186.436]]}, "2-4": {"t0": 187.636, "t1": 205.203, "lines": [[188.336, 192.452], [192.902, 198.651], [199.101, 204.003]]}, "2-5": {"t0": 205.203, "t1": 229.593, "lines": [[205.903, 210.043], [210.493, 217.75], [218.2, 225.582], [226.032, 228.393]]}, "2-6": {"t0": 229.593, "t1": 251.871, "lines": [[230.293, 237.477], [237.927, 242.956], [243.406, 250.671]]}, "2-7": {"t0": 251.871, "t1": 280.29, "lines": [[252.571, 257.364], [257.814, 265.035], [265.485, 271.883], [272.333, 279.09]]}, "2-8": {"t0": 280.29, "t1": 298.649, "lines": [[280.99, 285.848], [286.298, 291.909], [292.359, 297.449]]}, "c3": {"t0": 298.649, "t1": 301.449, "lines": []}, "3-1": {"t0": 301.449, "t1": 318.755, "lines": [[302.149, 305.084], [305.534, 312.015], [312.465, 317.555]]}, "3-2": {"t0": 318.755, "t1": 336.738, "lines": [[319.455, 324.819], [325.269, 332.398], [332.848, 335.538]]}, "c4": {"t0": 336.738, "t1": 339.538, "lines": []}, "4-1": {"t0": 339.538, "t1": 351.725, "lines": [[340.238, 344.832], [345.282, 350.525]]}, "c5": {"t0": 351.725, "t1": 354.525, "lines": []}, "5-1": {"t0": 354.525, "t1": 367.755, "lines": [[355.225, 360.063], [360.513, 366.555]]}, "5-2": {"t0": 367.755, "t1": 387.31, "lines": [[368.455, 374.274], [374.724, 379.709], [380.159, 386.11]]}, "5-3": {"t0": 387.31, "t1": 396.809, "lines": [[388.01, 395.609]]}, "5-4": {"t0": 396.809, "t1": 415.8, "lines": [[397.509, 403.999], [404.449, 410.228], [410.678, 414.6]]}, "c6": {"t0": 415.8, "t1": 418.6, "lines": []}, "6-1": {"t0": 418.6, "t1": 438.588, "lines": [[419.3, 424.652], [425.102, 432.086], [432.536, 437.388]]}, "c7": {"t0": 438.588, "t1": 441.388, "lines": []}, "7-1": {"t0": 441.388, "t1": 464.776, "lines": [[442.088, 449.458], [449.908, 455.868], [456.318, 463.576]]}, "c8": {"t0": 464.776, "t1": 467.576, "lines": []}, "8-1": {"t0": 467.576, "t1": 480.783, "lines": [[468.276, 476.085], [476.535, 479.583]]}, "8-2": {"t0": 480.783, "t1": 495.081, "lines": [[481.483, 486.345], [486.795, 493.881]]}, "8-3": {"t0": 495.081, "t1": 505.385, "lines": [[495.781, 504.185]]}, "8-4": {"t0": 505.385, "t1": 522.697, "lines": [[506.085, 508.93], [509.38, 516.636], [517.086, 521.497]]}, "c9": {"t0": 522.697, "t1": 525.497, "lines": []}, "9-1": {"t0": 525.497, "t1": 547.095, "lines": [[526.197, 532.585], [533.035, 539.785], [540.235, 544.595]]}, "c10": {"t0": 547.095, "t1": 549.895, "lines": []}, "refs": {"t0": 549.895, "t1": 575.895, "lines": []}}, "total": 575.895};
+window.TIMELINE = {"segs": {"title": {"t0": 0.0, "t1": 18.738, "lines": [[1.0, 7.954], [8.404, 13.717], [14.167, 17.538]]}, "c1": {"t0": 18.738, "t1": 21.538, "lines": []}, "1-1": {"t0": 21.538, "t1": 40.395, "lines": [[22.238, 28.186], [28.636, 33.083], [33.533, 39.195]]}, "1-2": {"t0": 40.395, "t1": 64.324, "lines": [[41.095, 46.504], [46.954, 53.227], [53.677, 57.359], [57.809, 63.124]]}, "1-3": {"t0": 64.324, "t1": 86.285, "lines": [[65.024, 71.996], [72.446, 78.517], [78.967, 85.085]]}, "1-4": {"t0": 86.285, "t1": 108.572, "lines": [[86.985, 93.572], [94.022, 100.743], [101.193, 107.372]]}, "c2": {"t0": 108.572, "t1": 111.372, "lines": []}, "2-1": {"t0": 111.372, "t1": 138.833, "lines": [[112.072, 117.855], [118.305, 121.762], [122.212, 128.273], [128.723, 134.223], [134.673, 137.633]]}, "2-2": {"t0": 138.833, "t1": 162.402, "lines": [[139.533, 147.638], [148.088, 154.329], [154.779, 161.202]]}, "2-3": {"t0": 162.402, "t1": 187.636, "lines": [[163.102, 171.614], [172.064, 176.927], [177.377, 182.52], [182.97, 186.436]]}, "2-4": {"t0": 187.636, "t1": 205.203, "lines": [[188.336, 192.452], [192.902, 198.651], [199.101, 204.003]]}, "2-5": {"t0": 205.203, "t1": 229.593, "lines": [[205.903, 210.043], [210.493, 217.75], [218.2, 225.582], [226.032, 228.393]]}, "2-6": {"t0": 229.593, "t1": 251.871, "lines": [[230.293, 237.477], [237.927, 242.956], [243.406, 250.671]]}, "2-7": {"t0": 251.871, "t1": 280.29, "lines": [[252.571, 257.364], [257.814, 265.035], [265.485, 271.883], [272.333, 279.09]]}, "2-8": {"t0": 280.29, "t1": 298.649, "lines": [[280.99, 285.848], [286.298, 291.909], [292.359, 297.449]]}, "c3": {"t0": 298.649, "t1": 301.449, "lines": []}, "3-1": {"t0": 301.449, "t1": 318.755, "lines": [[302.149, 305.084], [305.534, 312.015], [312.465, 317.555]]}, "3-2": {"t0": 318.755, "t1": 336.738, "lines": [[319.455, 324.819], [325.269, 332.398], [332.848, 335.538]]}, "c4": {"t0": 336.738, "t1": 339.538, "lines": []}, "4-1": {"t0": 339.538, "t1": 351.725, "lines": [[340.238, 344.832], [345.282, 350.525]]}, "c5": {"t0": 351.725, "t1": 354.525, "lines": []}, "5-1": {"t0": 354.525, "t1": 367.755, "lines": [[355.225, 360.063], [360.513, 366.555]]}, "5-2": {"t0": 367.755, "t1": 387.31, "lines": [[368.455, 374.274], [374.724, 379.709], [380.159, 386.11]]}, "5-3": {"t0": 387.31, "t1": 396.809, "lines": [[388.01, 395.609]]}, "5-4": {"t0": 396.809, "t1": 415.8, "lines": [[397.509, 403.999], [404.449, 410.228], [410.678, 414.6]]}, "c6": {"t0": 415.8, "t1": 418.6, "lines": []}, "6-1": {"t0": 418.6, "t1": 441.888, "lines": [[422.6, 427.952], [428.402, 435.386], [435.836, 440.688]]}, "c7": {"t0": 441.888, "t1": 444.688, "lines": []}, "7-1": {"t0": 444.688, "t1": 468.076, "lines": [[445.388, 452.758], [453.208, 459.168], [459.618, 466.876]]}, "c8": {"t0": 468.076, "t1": 470.876, "lines": []}, "8-1": {"t0": 470.876, "t1": 484.083, "lines": [[471.576, 479.385], [479.835, 482.883]]}, "8-2": {"t0": 484.083, "t1": 498.381, "lines": [[484.783, 489.645], [490.095, 497.181]]}, "8-3": {"t0": 498.381, "t1": 508.685, "lines": [[499.081, 507.485]]}, "8-4": {"t0": 508.685, "t1": 525.997, "lines": [[509.385, 512.23], [512.68, 519.936], [520.386, 524.797]]}, "c9": {"t0": 525.997, "t1": 528.797, "lines": []}, "9-1": {"t0": 528.797, "t1": 550.395, "lines": [[529.497, 535.885], [536.335, 543.085], [543.535, 547.895]]}, "c10": {"t0": 550.395, "t1": 553.195, "lines": []}, "refs": {"t0": 553.195, "t1": 579.195, "lines": []}}, "total": 579.195};

diff --git a/videos/src/sutured-scleral-iol-fixation/anim/segments.js b/videos/src/sutured-scleral-iol-fixation/anim/segments.js
@@ -197,7 +197,7 @@ const SEGS = [
 
 // ---------------------------------------------------------------- 6 放入 IOL 與置中
 { id: 'c6', chapterCard: 6 },
-{ id: '6-1', ch: 6, title: '放入 IOL、拉線置中', layout: 'dual',
+{ id: '6-1', ch: 6, title: '放入 IOL、拉線置中', layout: 'dual', lead: 4.0,
   lines: ['經 12 點切口放入 IOL，haptic 放到虹膜後；\n兩邊張力一樣，optic 置中、不傾斜。',
           'UBM 研究：縫合後垂直傾斜平均 3.13°；\n文中引述，超過 5° 可能眩光或複視。',
           '縫合固定的 IOL 比囊袋內前面、術後偏近視；\n度數依主治。'],
